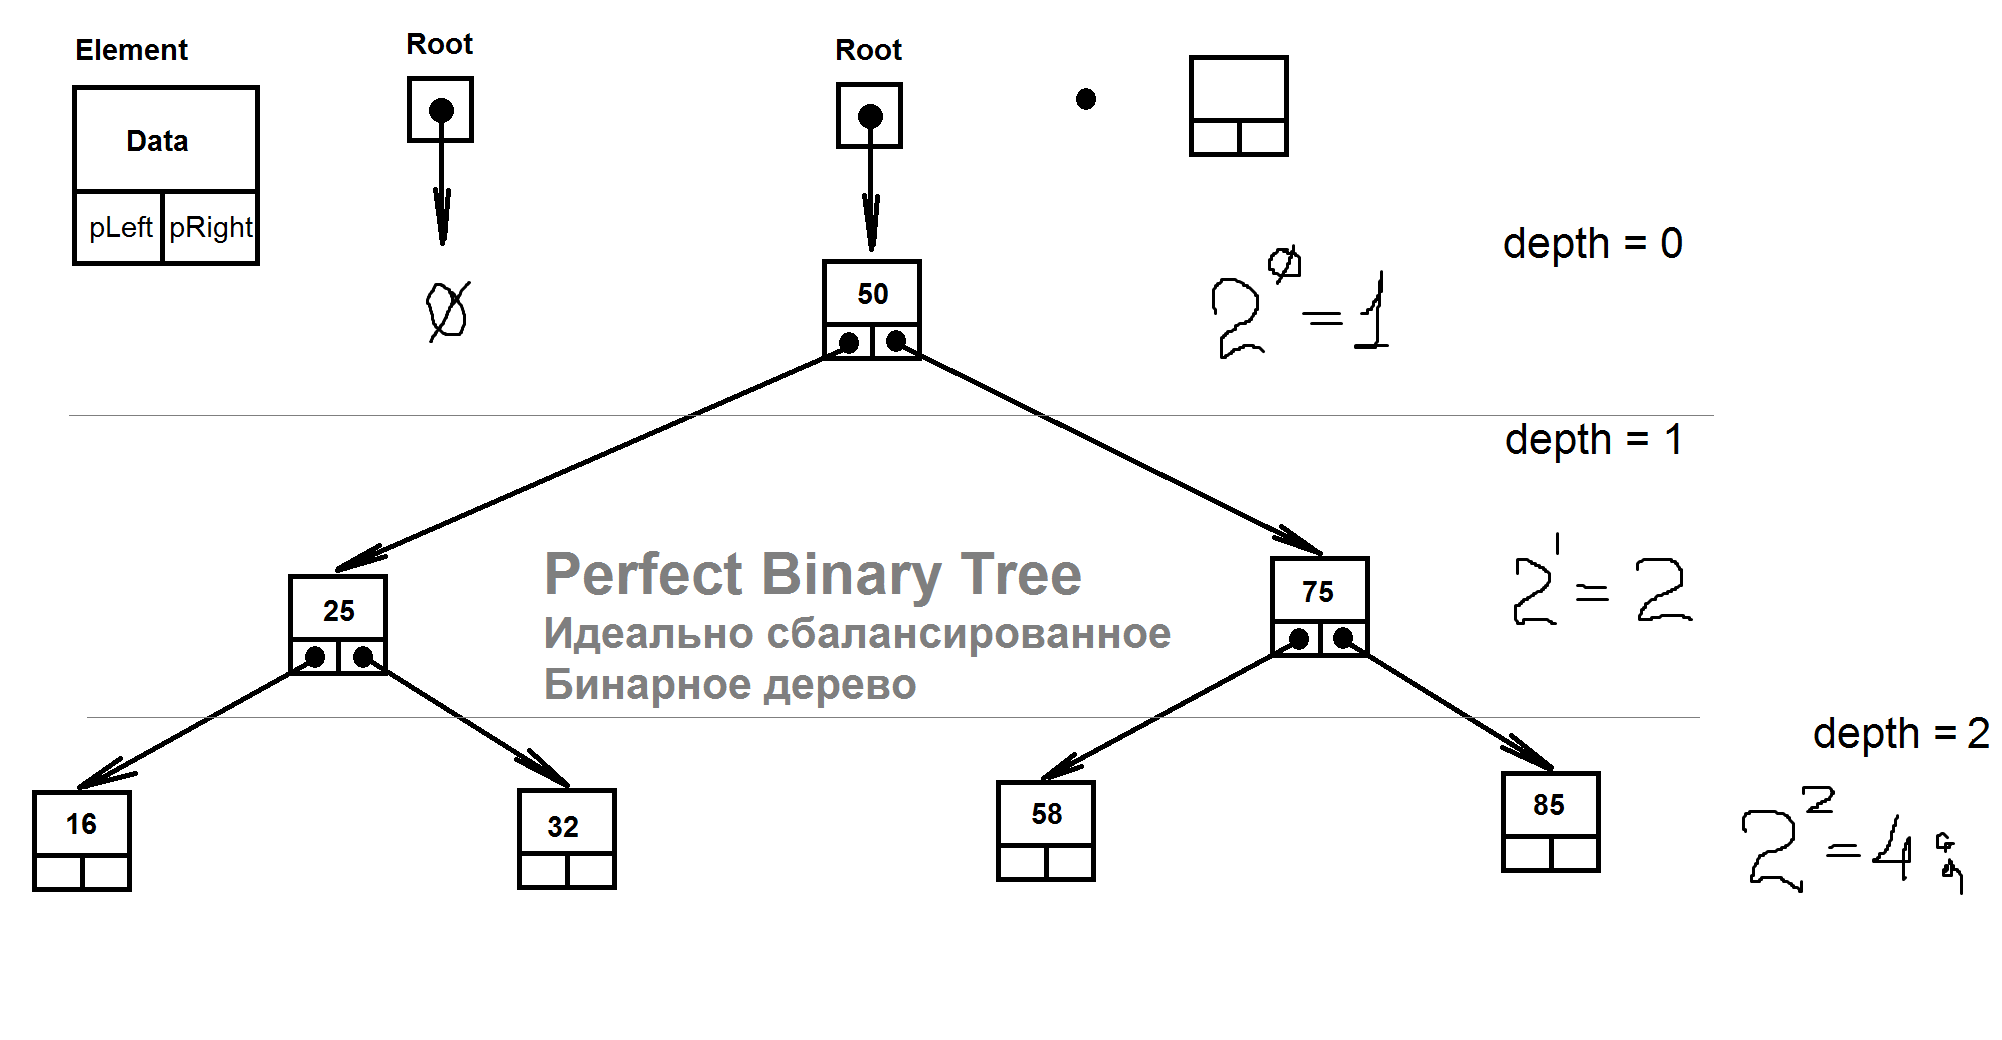
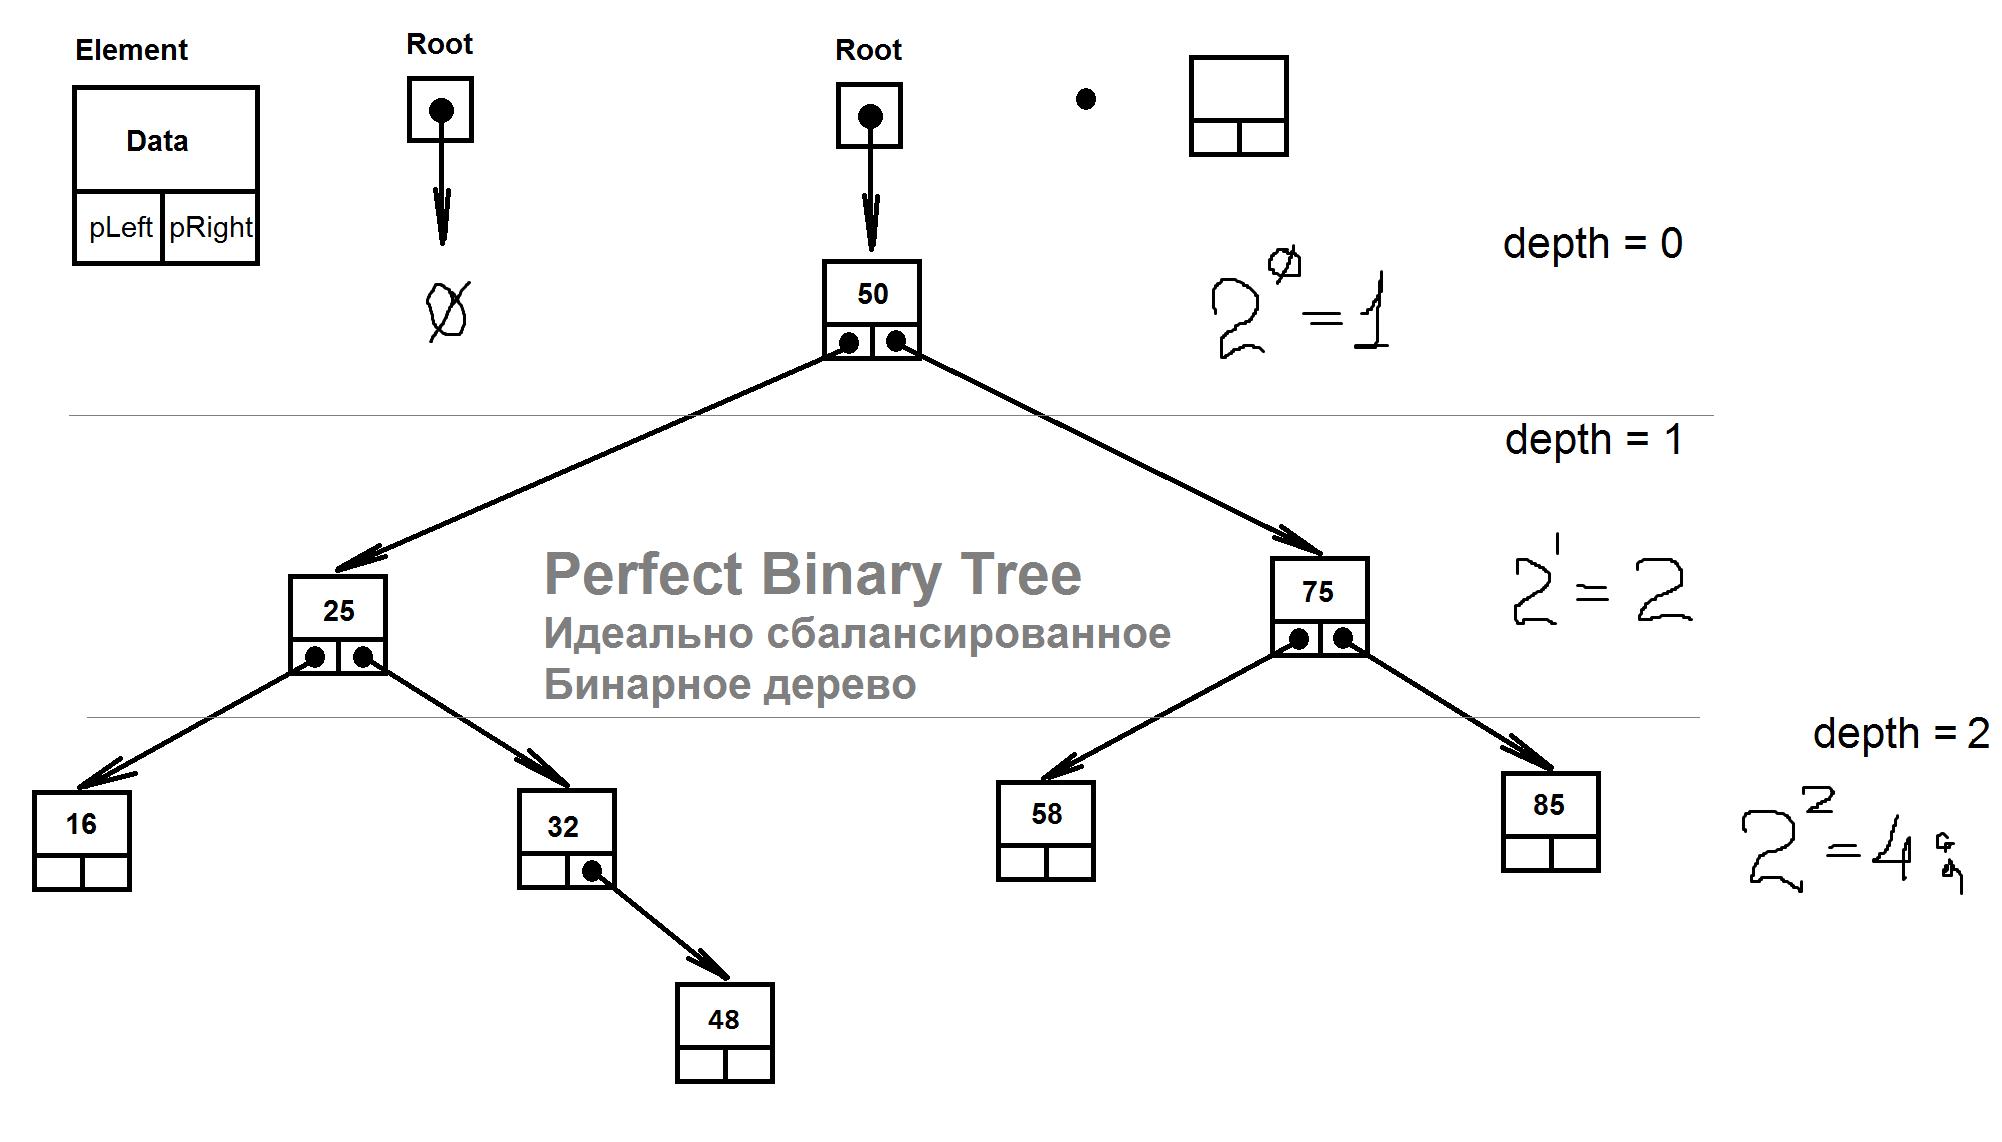
Depth

diff --git a/DataContainers/BinaryTree/main.cpp b/DataContainers/BinaryTree/main.cpp
@@ -1,4 +1,5 @@
-#include<iostream>
+#pragma warning(disable:4326)
+#include<iostream>
 using std::cin;
 using std::cout;
 using std::endl;
@@ -8,6 +9,7 @@ using std::endl;
 
 class Tree
 {
+protected:
 	class Element
 	{
 		int Data;				//Значение элемента
@@ -23,21 +25,63 @@ class Tree
 			cout << "EDestructor:\t" << this << endl;
 		}
 		friend class Tree;
+		friend class UniqueTree;
 	}*Root;
 public:
 	Element* getRoot()const
 	{
 		return Root;
 	}
-	Tree():Root(nullptr)
+	Tree() :Root(nullptr)
 	{
 		cout << "TConstructor:\t" << this << endl;
+	}
+	Tree(const std::initializer_list<int>& il) :Tree()
+	{
+		for (int const* it = il.begin(); it != il.end(); ++it)
+			insert(*it, Root);
 	}
 	~Tree()
 	{
 		cout << "TDestructor:\t" << this << endl;
 	}
+	void insert(int Data)
+	{
+		insert(Data, Root);
+	}
+	int minValue()const
+	{
+		return minValue(Root);
+	}
+	int maxValue()const
+	{
+		return maxValue(Root);
+	}
 
+	int Count()const
+	{
+		return Count(Root);
+	}
+	int Sum()const
+	{
+		return Sum(Root);
+	}
+	double Avg()const
+	{
+		return (double)Sum(Root) / Count(Root);
+	}
+
+	int Depth()const
+	{
+		return Depth(Root);
+	}
+
+	void print()const
+	{
+		print(Root);
+		cout << endl;
+	}
+private:
 	void insert(int Data, Element* Root)
 	{
 		if (this->Root == nullptr)this->Root = new Element(Data);
@@ -54,6 +98,37 @@ public:
 		}
 	}
 
+	int minValue(Element* Root)const
+	{
+		/*if (Root->pLeft == nullptr)return Root->Data;
+		else return minValue(Root->pLeft);*/
+		return Root->pLeft == nullptr ? Root->Data : minValue(Root->pLeft);
+	}
+	int maxValue(Element* Root)const
+	{
+		/*if (Root->pRight == nullptr)return Root->Data;
+		else return maxValue(Root->pRight);*/
+		return Root->pRight ? maxValue(Root->pRight) : Root->Data;
+	}
+
+	int Count(Element* Root)const
+	{
+		/*if (Root == nullptr)return 0;
+		else return count(Root->pLeft) + count(Root->pRight) + 1;*/
+		return !Root ? 0 : Count(Root->pLeft) + Count(Root->pRight) + 1;
+	}
+	int Sum(Element* Root)const
+	{
+		return !Root ? 0 : Sum(Root->pLeft) + Sum(Root->pRight) + Root->Data;
+	}
+
+	int Depth(Element* Root)const
+	{
+		if (Root == nullptr)return 0;
+		if (Depth(Root->pLeft) < Depth(Root->pRight))return Depth(Root->pRight) + 1;
+		else return Depth(Root->pLeft) + 1;
+	}
+
 	void print(Element* Root)const
 	{
 		if (Root == nullptr)return;
@@ -62,17 +137,67 @@ public:
 		print(Root->pRight);
 	}
 };
+class UniqueTree :public Tree
+{
+	void insert(int Data, Element* Root)
+	{
+		if (this->Root == nullptr)this->Root = new Element(Data);
+		if (Root == nullptr)return;
+		if (Data < Root->Data)
+		{
+			if (Root->pLeft == nullptr)Root->pLeft = new Element(Data);
+			else insert(Data, Root->pLeft);
+		}
+		else if (Data > Root->Data)
+		{
+			if (Root->pRight == nullptr)Root->pRight = new Element(Data);
+			else insert(Data, Root->pRight);
+		}
+	}
+public:
+	void insert(int Data)
+	{
+		insert(Data, Root);
+	}
+};
+
+//#define BASE_CHECK
 
 void main()
 {
 	setlocale(LC_ALL, "Rus");
+#ifdef BASE_CHECK
 	int n;
 	cout << "Введите количество элементов: "; cin >> n;
 	Tree tree;
 	for (int i = 0; i < n; i++)
 	{
-		tree.insert(rand() % 100, tree.getRoot());
+		tree.insert(rand() % 100);
 	}
-	tree.print(tree.getRoot());
+	tree.print();
 	cout << endl;
+	cout << "Минимальное значение в дереве: " << tree.minValue() << endl;
+	cout << "Максимальное значение в дереве: " << tree.maxValue() << endl;
+	cout << "Количество элементов в дереве: " << tree.Count() << endl;
+	cout << "Сумма элементов в дереве: " << tree.Sum() << endl;
+	cout << "Среднее-арифметическое элементов в дереве: " << tree.Avg() << endl;
+	cout << "Глубина дерева: " << tree.Depth() << endl;
+
+	UniqueTree unique_tree;
+	for (int i = 0; i < n; i++)
+	{
+		unique_tree.insert(rand() % 100);
+	}
+	unique_tree.print();
+	cout << "Минимальное значение в дереве: " << unique_tree.minValue() << endl;
+	cout << "Максимальное значение в дереве: " << unique_tree.maxValue() << endl;
+	cout << "Количество элементов в дереве: " << unique_tree.Count() << endl;
+	cout << "Сумма элементов в дереве: " << unique_tree.Sum() << endl;
+	cout << "Среднее-арифметическое элементов в дереве: " << unique_tree.Avg() << endl;
+	cout << "Глубина дерева: " << unique_tree.Depth() << endl;
+#endif // BASE_CHECK
+
+	Tree tree = { 50, 25, 75, 16, 32, 58, 85, 48, 49 };
+	tree.print();
+	cout << "Глубина дерева: " << tree.Depth() << endl;
 }
